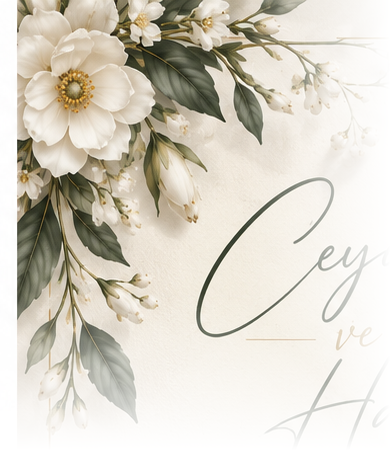
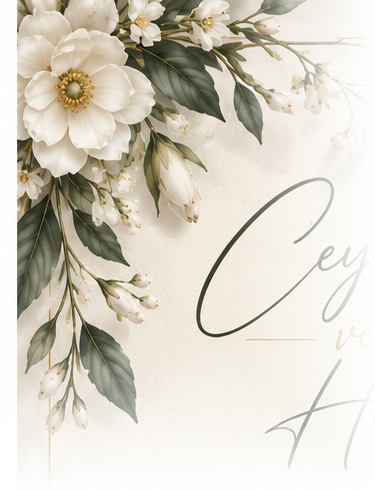
Add files via upload

diff --git a/style.css b/style.css
@@ -1,1 +1,1 @@
-*{box-sizing:border-box}html{scroll-behavior:smooth}body{margin:0;background:#f7f1e8;color:#263f31;font-family:'Cormorant Garamond',Georgia,serif}button,a{-webkit-tap-highlight-color:transparent}.cover{position:fixed;inset:0;z-index:30;background:#f7f1e8;display:flex;align-items:center;justify-content:center;perspective:1500px;overflow:hidden}.cover-leaf{height:100%;width:min(100%,580px);position:relative;transform-origin:left center;backface-visibility:hidden;box-shadow:0 0 40px #b9a78d25}.cover-leaf img{width:100%;height:100%;object-fit:fill;display:block}.seal-hit{position:absolute;left:50%;top:45%;transform:translate(-50%,-50%);width:clamp(135px,43vw,220px);height:clamp(135px,43vw,220px);border:0;background:transparent;border-radius:50%;cursor:pointer;touch-action:manipulation}.cover.opening{pointer-events:none}.cover.opening .cover-leaf{animation:openPage 1.45s cubic-bezier(.22,.67,.24,1) forwards}.cover.opening{animation:fadeCover 1.45s ease forwards}@keyframes openPage{0%{transform:rotateY(0) translateX(0);opacity:1}40%{transform:rotateY(-22deg) translateX(-2%);opacity:1}100%{transform:rotateY(-95deg) translateX(-8%);opacity:0}}@keyframes fadeCover{0%,55%{background:#f7f1e8}100%{background:transparent;visibility:hidden}}.invitation{position:relative;isolation:isolate;max-width:580px;margin:0 auto;min-height:100svh;overflow:hidden;text-align:center;background:#f7f1e8;padding:0 clamp(27px,7.3vw,46px);visibility:hidden;opacity:0;transition:opacity .65s ease}.invitation.visible{visibility:visible;opacity:1}.fine-frame{position:absolute;z-index:1;inset:18px 17px;border-left:1px solid #b48c51;border-right:1px solid #b48c51;pointer-events:none}.flower{position:absolute;z-index:0;pointer-events:none;user-select:none;display:block;object-fit:contain}.flower-top{left:0;top:0;width:clamp(200px,64%,370px);height:auto}.flower-bottom{right:0;bottom:0;width:clamp(140px,42%,240px);height:auto}section{position:relative;z-index:2}.hero{padding-top:clamp(112px,18vh,180px);display:flex;flex-direction:column;align-items:center}.names{font-family:'Great Vibes',cursive;display:flex;flex-direction:column;align-items:center;line-height:.96;font-size:clamp(70px,17vw,105px);font-weight:400}.names span{display:block;white-space:nowrap}.names em{font-family:'Great Vibes',cursive;font-style:normal;font-size:.48em;line-height:1;margin:-1px 0 0;color:#263f31}h1{font-size:clamp(20px,5vw,29px);font-weight:500;letter-spacing:.115em;line-height:1.34;margin:34px 0 28px}.date-row{display:grid;grid-template-columns:minmax(0,1fr) 1px minmax(0,1fr);align-items:center;gap:9px;width:100%}.date-item{min-width:0;display:flex;align-items:center;flex-direction:column;gap:3px}.date-rule{height:87px;width:1px;background:#b48c51}.date-item svg{width:30px;height:30px;stroke:#ac8242;stroke-width:1.6;fill:none;margin-bottom:8px}.date-item strong{font-weight:500;white-space:nowrap;font-size:clamp(17px,4.4vw,24px)}.date-item small{font-size:clamp(15px,3.9vw,20px);letter-spacing:.07em}.quote{max-width:440px;font-size:clamp(23px,5.65vw,31px);font-style:italic;line-height:1.18;margin:37px auto 27px}.scroll-hint{font-size:clamp(13px,3.5vw,17px);letter-spacing:.16em}.scroll-hint span{display:block;font-size:29px;line-height:1;margin-top:8px}.countdown-section{padding:45px 0 0}.countdown-section h2{font-size:clamp(23px,5.5vw,32px);font-weight:500;letter-spacing:.11em;line-height:1.24;margin:0 0 30px}.countdown{display:grid;grid-template-columns:repeat(4,minmax(0,1fr));gap:9px}.countdown>div{border:1px solid #b48c51;border-radius:17px;background:rgba(255,251,245,.56);aspect-ratio:1/1.06;display:flex;flex-direction:column;align-items:center;justify-content:center}.countdown b{font-size:clamp(25px,7vw,42px);font-weight:500;line-height:1.2}.countdown small{font-size:clamp(11px,2.7vw,16px);letter-spacing:.1em}.ornament{font-size:26px;line-height:1;color:#b48c51;margin-top:23px}.venue{padding:43px 0 90px}.venue h2{font-size:clamp(20px,5vw,27px);font-weight:500;letter-spacing:.12em;margin:0 0 14px}.venue h3{font-size:clamp(26px,6.9vw,37px);font-weight:500;line-height:1.12;margin:0 0 26px}.map{height:270px;border:1px solid #b48c51;border-radius:14px;overflow:hidden;background:#e9e5dc}.map iframe{width:100%;height:100%;border:0}.directions{display:block;margin-top:19px;padding:17px 10px;border-radius:12px;border:1px solid #b48c51;background:#294b3b;color:white;text-decoration:none;font-size:clamp(20px,5.6vw,27px);letter-spacing:.09em}.ornament-end{margin-top:24px}.music-toggle{position:fixed;z-index:35;right:max(14px,calc((100vw - 560px)/2));top:24%;height:56px;width:56px;border-radius:50%;border:1px solid #b48c51;background:#f9f3eae8;color:#a67f44;font-size:29px;cursor:pointer}.music-toggle.muted::after{content:'╱';position:absolute;left:19px;top:8px;font-size:36px}@media(max-width:390px){.invitation{padding-left:26px;padding-right:26px}.hero{padding-top:115px}.names{font-size:clamp(65px,17vw,76px)}.flower-top{width:225px}.countdown{gap:7px}.date-item strong{font-size:17px}}@media(prefers-reduced-motion:reduce){.cover.opening .cover-leaf{animation-duration:.25s}.cover.opening{animation-duration:.25s}.invitation{transition:none}}
+*{box-sizing:border-box}html{scroll-behavior:smooth}body{margin:0;background:#f7f2e9;color:#273e31;font-family:"Cormorant Garamond",Georgia,serif}button,a{-webkit-tap-highlight-color:transparent}.cover{position:fixed;inset:0;z-index:40;display:flex;justify-content:center;align-items:center;background:#f7f2e9;perspective:1600px;overflow:hidden}.cover-panel{position:relative;height:100%;width:min(100%,560px);transform-origin:left center;backface-visibility:hidden}.cover-panel img{width:100%;height:100%;object-fit:cover;display:block}.open-seal{position:absolute;left:50%;top:46%;transform:translate(-50%,-50%);height:clamp(150px,45vw,225px);width:clamp(150px,45vw,225px);background:transparent;border:0;border-radius:50%;cursor:pointer;touch-action:manipulation}.cover.opening{pointer-events:none;animation:coverDisappear 1.55s ease forwards}.cover.opening .cover-panel{animation:pageTurn 1.55s cubic-bezier(.4,.02,.22,1) forwards}@keyframes pageTurn{0%{transform:rotateY(0);filter:brightness(1)}50%{transform:rotateY(-55deg);filter:brightness(.8)}100%{transform:rotateY(-110deg);filter:brightness(.7)}}@keyframes coverDisappear{0%,55%{background:#f7f2e9}100%{background:transparent;visibility:hidden}}.invitation{max-width:560px;min-height:100svh;margin:auto;position:relative;isolation:isolate;overflow:hidden;background:#f7f2e9;visibility:hidden;opacity:0;transition:opacity .5s ease}.invitation.visible{visibility:visible;opacity:1}.frame{position:absolute;inset:20px 18px;z-index:1;pointer-events:none;border-left:1px solid #b18a4e;border-right:1px solid #b18a4e}.botanical{position:absolute;z-index:1;pointer-events:none;user-select:none;height:auto;display:block}.botanical.top{top:0;left:0;width:min(67%,345px)}.botanical.bottom{bottom:0;right:0;width:min(54%,270px)}.content{position:relative;z-index:2;padding:0 clamp(34px,7vw,54px);text-align:center}.intro{padding-top:clamp(130px,23vh,190px)}.names{display:flex;flex-direction:column;align-items:center;font-family:Italianno,"Times New Roman",serif;font-weight:400;color:#273e31;font-size:clamp(88px,21vw,126px);line-height:.71}.names span{display:block;white-space:nowrap}.names em{font-size:.45em;font-style:normal;line-height:.8;margin:12px 0 9px;color:#ad884d}h1{font-size:clamp(19px,4.5vw,26px);font-weight:400;letter-spacing:.15em;line-height:1.25;margin:40px 0 29px}.datetime{display:grid;grid-template-columns:minmax(0,1fr) 1px minmax(0,1fr);align-items:center;gap:12px;margin:0 auto;max-width:410px}.date-cell{display:flex;align-items:center;flex-direction:column;gap:2px;min-width:0}.date-cell svg,.place-icon svg{width:29px;height:29px;stroke:#ad884d;stroke-width:1.7;fill:none;margin-bottom:8px}.date-cell strong{font-size:clamp(16px,4vw,21px);letter-spacing:.075em;font-weight:500;white-space:nowrap}.date-cell small{font-size:clamp(14px,3.6vw,19px);letter-spacing:.14em}.divider{width:1px;height:82px;background:#b18a4e}.message{font-style:italic;font-size:clamp(22px,5.25vw,29px);line-height:1.15;margin:35px auto 22px;max-width:440px}.scroll-note{font-size:13px;letter-spacing:.2em;margin-bottom:0}.scroll-note span{display:block;font-size:30px;line-height:1.1;margin-top:4px}.count-section{padding-top:40px}.count-section h2{font-size:clamp(20px,4.8vw,27px);font-weight:400;line-height:1.16;letter-spacing:.13em;margin:0 0 24px}.countdown{display:grid;grid-template-columns:repeat(4,minmax(0,1fr));gap:8px}.countdown>div{aspect-ratio:1/1.06;border:1px solid #b18a4e;border-radius:17px;background:#fffbf599;display:flex;flex-direction:column;align-items:center;justify-content:center}.countdown b{font-size:clamp(26px,7vw,42px);font-weight:500;line-height:1.08}.countdown small{font-size:clamp(11px,2.8vw,16px);letter-spacing:.09em}.ornament{color:#b18a4e;font-size:18px;margin:19px 0 0}.place{padding:37px 0 115px}.place-icon svg{height:31px;width:31px;margin:0}.place h2{font-size:clamp(17px,4.2vw,22px);font-weight:500;letter-spacing:.13em;line-height:1.12;margin:10px auto 24px;max-width:390px}.map{height:235px;overflow:hidden;border-radius:12px;border:1px solid #b18a4e;background:#eae5dc}.map iframe{width:100%;height:100%;border:0}.route{display:block;margin:15px auto 0;max-width:350px;padding:12px 18px;border:1px solid #b18a4e;border-radius:999px;text-decoration:none;color:#273e31;background:#fff9f0b8;font-size:clamp(18px,4.6vw,24px);letter-spacing:.08em}.music-toggle{position:fixed;z-index:35;top:24%;right:max(14px,calc((100vw - 530px)/2));width:53px;height:53px;border:1px solid #b18a4e;border-radius:50%;background:#faf5eced;color:#ad884d;font-size:27px;cursor:pointer}.music-toggle.muted::after{content:'╱';position:absolute;left:18px;top:6px;font-size:36px}@media(max-width:390px){.content{padding-left:32px;padding-right:32px}.intro{padding-top:120px}.botanical.top{width:65%}.names{font-size:clamp(83px,21vw,100px)}.countdown{gap:7px}.date-cell strong{font-size:15px}.message{font-size:22px}}@media(prefers-reduced-motion:reduce){.cover.opening,.cover.opening .cover-panel{animation-duration:.2s}html{scroll-behavior:auto}}

diff --git a/index.html b/index.html
@@ -1,57 +1,14 @@
 <!doctype html>
-<html lang="tr">
-<head>
-  <meta charset="utf-8">
-  <meta name="viewport" content="width=device-width,initial-scale=1,viewport-fit=cover">
-  <meta name="theme-color" content="#f7f1e8">
-  <title>Ceyda & Halil | Nikâh Davetiyesi</title>
-  <link rel="preconnect" href="https://fonts.googleapis.com">
-  <link rel="preconnect" href="https://fonts.gstatic.com" crossorigin>
-  <link href="https://fonts.googleapis.com/css2?family=Great+Vibes&family=Cormorant+Garamond:ital,wght@0,400;0,500;0,600;1,400;1,500&display=swap" rel="stylesheet">
-  <link rel="stylesheet" href="style.css?v=10">
-</head>
+<html lang="tr"><head><meta charset="utf-8"><meta name="viewport" content="width=device-width, initial-scale=1, viewport-fit=cover"><meta name="theme-color" content="#f7f2e9"><title>Ceyda & Halil | Nikâh Davetiyesi</title>
+<link rel="preconnect" href="https://fonts.googleapis.com"><link rel="preconnect" href="https://fonts.gstatic.com" crossorigin><link href="https://fonts.googleapis.com/css2?family=Italianno&family=Cormorant+Garamond:ital,wght@0,400;0,500;1,400;1,500&display=swap" rel="stylesheet"><link rel="stylesheet" href="style.css?v=26"></head>
 <body>
-  <div id="cover" class="cover" aria-label="Davetiye kapağı">
-    <div class="cover-leaf">
-      <img src="kapak.jpg" alt="Ceyda ve Halil nikâh davetiyesi, altın mühürlü çiçekli kapak">
-      <button id="open" class="seal-hit" type="button" aria-label="Mühre dokunarak davetiyeyi aç"></button>
-    </div>
-  </div>
-  <main id="invitation" class="invitation" inert>
-    <div class="fine-frame" aria-hidden="true"></div>
-    <img class="flower flower-top" src="cicek-ust.png" alt="" aria-hidden="true">
-    <img class="flower flower-bottom" src="cicek-alt.png" alt="" aria-hidden="true">
-    <section class="hero" aria-label="Nikâh davetiyesi">
-      <div class="names"><span>Ceyda</span><em>ve</em><span>Halil</span></div>
-      <h1>NİKÂH TÖRENİMİZE<br>DAVETLİSİNİZ</h1>
-      <div class="date-row">
-        <div class="date-item"><svg viewBox="0 0 24 24" aria-hidden="true"><rect x="3" y="5" width="18" height="16" rx="2"/><path d="M7 3v4M17 3v4M3 10h18M7 14h2M12 14h2M17 14h1"/></svg><strong>1 KASIM 2026</strong><small>PAZAR</small></div>
-        <span class="date-rule" aria-hidden="true"></span>
-        <div class="date-item"><svg viewBox="0 0 24 24" aria-hidden="true"><circle cx="12" cy="12" r="9"/><path d="M12 6v6l4 3"/></svg><strong>13:15</strong><small>SAAT</small></div>
-      </div>
-      <p class="quote">Bu özel günde mutluluğumuzu sizinle paylaşmak bizi çok mutlu edecek.</p>
-      <div class="scroll-hint">AŞAĞI KAYDIRIN <span aria-hidden="true">⌄</span></div>
-    </section>
-    <section class="countdown-section" aria-label="Geri sayım">
-      <h2>ÖZEL GÜNÜMÜZE<br>KALAN SÜRE</h2>
-      <div class="countdown">
-        <div><b id="days">00</b><small>GÜN</small></div>
-        <div><b id="hours">00</b><small>SAAT</small></div>
-        <div><b id="minutes">00</b><small>DK</small></div>
-        <div><b id="seconds">00</b><small>SN</small></div>
-      </div>
-      <div class="ornament" aria-hidden="true">❧</div>
-    </section>
-    <section class="venue" aria-label="Tören yeri">
-      <h2>MEKÂN</h2>
-      <h3>Denizli Merkezefendi<br>Kültür Merkezi</h3>
-      <div class="map"><iframe title="Denizli Merkezefendi Kültür Merkezi haritası" src="https://maps.google.com/maps?q=Denizli%20Merkezefendi%20K%C3%BClt%C3%BCr%20Merkezi&z=15&output=embed" loading="lazy" referrerpolicy="no-referrer-when-downgrade" allowfullscreen></iframe></div>
-      <a class="directions" href="https://maps.app.goo.gl/uxKnvJDo62g8kEkaA?g_st=iw" target="_blank" rel="noopener noreferrer">YOL TARİFİ AL</a>
-      <div class="ornament ornament-end" aria-hidden="true">❧</div>
-    </section>
-  </main>
-  <button id="musicToggle" class="music-toggle" type="button" aria-label="Müziği aç veya kapat" hidden>♫</button>
-  <audio id="music" src="muzik.mp3" preload="auto" loop playsinline></audio>
-  <script src="script.js?v=10"></script>
-</body>
-</html>
+<div id="cover" class="cover"><div class="cover-panel"><img src="kapak.jpg" alt="Altın C H mühürlü çiçekli davetiye kapağı"><button id="open" class="open-seal" type="button" aria-label="Mühre dokunarak davetiyeyi aç"></button></div></div>
+<main id="invitation" class="invitation" inert>
+<div class="frame" aria-hidden="true"></div><img src="cicek-ust.png" class="botanical top" alt="" aria-hidden="true"><img src="cicek-alt.png" class="botanical bottom" alt="" aria-hidden="true">
+<div class="content">
+<section class="intro"><div class="names"><span>Ceyda</span><em>ve</em><span>Halil</span></div><h1>NİKÂH TÖRENİMİZE<br>DAVETLİSİNİZ</h1>
+<div class="datetime"><div class="date-cell"><svg viewBox="0 0 24 24" aria-hidden="true"><rect x="3" y="5" width="18" height="16" rx="1.5"/><path d="M7 3v4M17 3v4M3 10h18M7 14h2M12 14h2"/></svg><strong>1 KASIM 2026</strong><small>PAZAR</small></div><i class="divider" aria-hidden="true"></i><div class="date-cell"><svg viewBox="0 0 24 24" aria-hidden="true"><circle cx="12" cy="12" r="9"/><path d="M12 6v6l4 3"/></svg><strong>13:15</strong><small>SAAT</small></div></div>
+<p class="message">Bu özel günde mutluluğumuzu<br class="desktop-only"> sizinle paylaşmak bizi çok mutlu edecek.</p><div class="scroll-note">AŞAĞI KAYDIRIN<span>⌄</span></div></section>
+<section class="count-section"><h2>ÖZEL GÜNÜMÜZE<br>KALAN SÜRE</h2><div class="countdown"><div><b id="days">00</b><small>GÜN</small></div><div><b id="hours">00</b><small>SAAT</small></div><div><b id="minutes">00</b><small>DK</small></div><div><b id="seconds">00</b><small>SN</small></div></div><div class="ornament" aria-hidden="true">✦</div></section>
+<section class="place"><div class="place-icon" aria-hidden="true"><svg viewBox="0 0 24 24"><path d="M12 22s7-7.2 7-13a7 7 0 0 0-14 0c0 5.8 7 13 7 13Z"/><circle cx="12" cy="9" r="2.5"/></svg></div><h2>DENİZLİ<br>MERKEZEFENDİ KÜLTÜR MERKEZİ</h2><div class="map"><iframe title="Denizli Merkezefendi Kültür Merkezi konum haritası" src="https://maps.google.com/maps?q=Denizli%20Merkezefendi%20K%C3%BClt%C3%BCr%20Merkezi&z=15&output=embed" loading="lazy" referrerpolicy="no-referrer-when-downgrade" allowfullscreen></iframe></div><a class="route" href="https://maps.app.goo.gl/uxKnvJDo62g8kEkaA?g_st=iw" target="_blank" rel="noopener noreferrer">YOL TARİFİ AL</a></section>
+</div></main><button id="musicToggle" class="music-toggle" type="button" aria-label="Müziği aç veya kapat" hidden>♫</button><audio id="music" src="muzik.mp3" preload="auto" loop playsinline></audio><script src="script.js?v=26"></script></body></html>

diff --git a/script.js b/script.js
@@ -4,24 +4,18 @@ const invitation=document.getElementById('invitation');
 const music=document.getElementById('music');
 const toggle=document.getElementById('musicToggle');
 let opened=false;
-function updateMusic(){toggle.classList.toggle('muted',music.paused);toggle.setAttribute('aria-label',music.paused?'Müziği aç':'Müziği kapat');}
-function startMusic(){const p=music.play();if(p&&typeof p.catch==='function')p.catch(()=>updateMusic());}
+function syncMusic(){toggle.classList.toggle('muted',music.paused);toggle.setAttribute('aria-label',music.paused?'Müziği aç':'Müziği kapat');}
+function playMusic(){const promise=music.play();if(promise&&promise.catch)promise.catch(syncMusic);}
 openButton.addEventListener('click',()=>{
-  if(opened)return;opened=true;
-  // Must run inside the actual user gesture for iPhone autoplay permissions.
-  startMusic();
-  invitation.inert=false;
-  invitation.classList.add('visible');
-  cover.classList.add('opening');
-  toggle.hidden=false;
-  updateMusic();
-  cover.addEventListener('animationend',e=>{if(e.target===cover){cover.hidden=true;}},{once:true});
-  setTimeout(()=>{cover.hidden=true;},1750);
+ if(opened)return;opened=true;
+ playMusic(); // iPhone requires playback inside this direct tap event.
+ invitation.inert=false;invitation.classList.add('visible');
+ cover.classList.add('opening');toggle.hidden=false;
+ window.setTimeout(()=>{cover.hidden=true;},1650);
 });
-toggle.addEventListener('click',()=>{if(music.paused)startMusic();else music.pause();});
-music.addEventListener('play',updateMusic);
-music.addEventListener('pause',updateMusic);
-music.addEventListener('error',()=>{toggle.classList.add('muted');toggle.title='Müzik yüklenemedi';});
-const target=new Date('2026-11-01T13:15:00+03:00').getTime();
-function tick(){const remaining=Math.max(0,target-Date.now());const values=[Math.floor(remaining/86400000),Math.floor(remaining/3600000)%24,Math.floor(remaining/60000)%60,Math.floor(remaining/1000)%60];['days','hours','minutes','seconds'].forEach((id,i)=>{document.getElementById(id).textContent=String(values[i]).padStart(2,'0');});}
-tick();setInterval(tick,1000);
+toggle.addEventListener('click',()=>{if(music.paused)playMusic();else music.pause();});
+music.addEventListener('play',syncMusic);music.addEventListener('pause',syncMusic);
+music.addEventListener('error',()=>{toggle.classList.add('muted');toggle.title='Müzik dosyası yüklenemedi';});
+const target=Date.parse('2026-11-01T13:15:00+03:00');
+function updateCountdown(){const diff=Math.max(0,target-Date.now());const parts=[Math.floor(diff/86400000),Math.floor(diff/3600000)%24,Math.floor(diff/60000)%60,Math.floor(diff/1000)%60];['days','hours','minutes','seconds'].forEach((id,i)=>{document.getElementById(id).textContent=String(parts[i]).padStart(2,'0');});}
+updateCountdown();setInterval(updateCountdown,1000);
